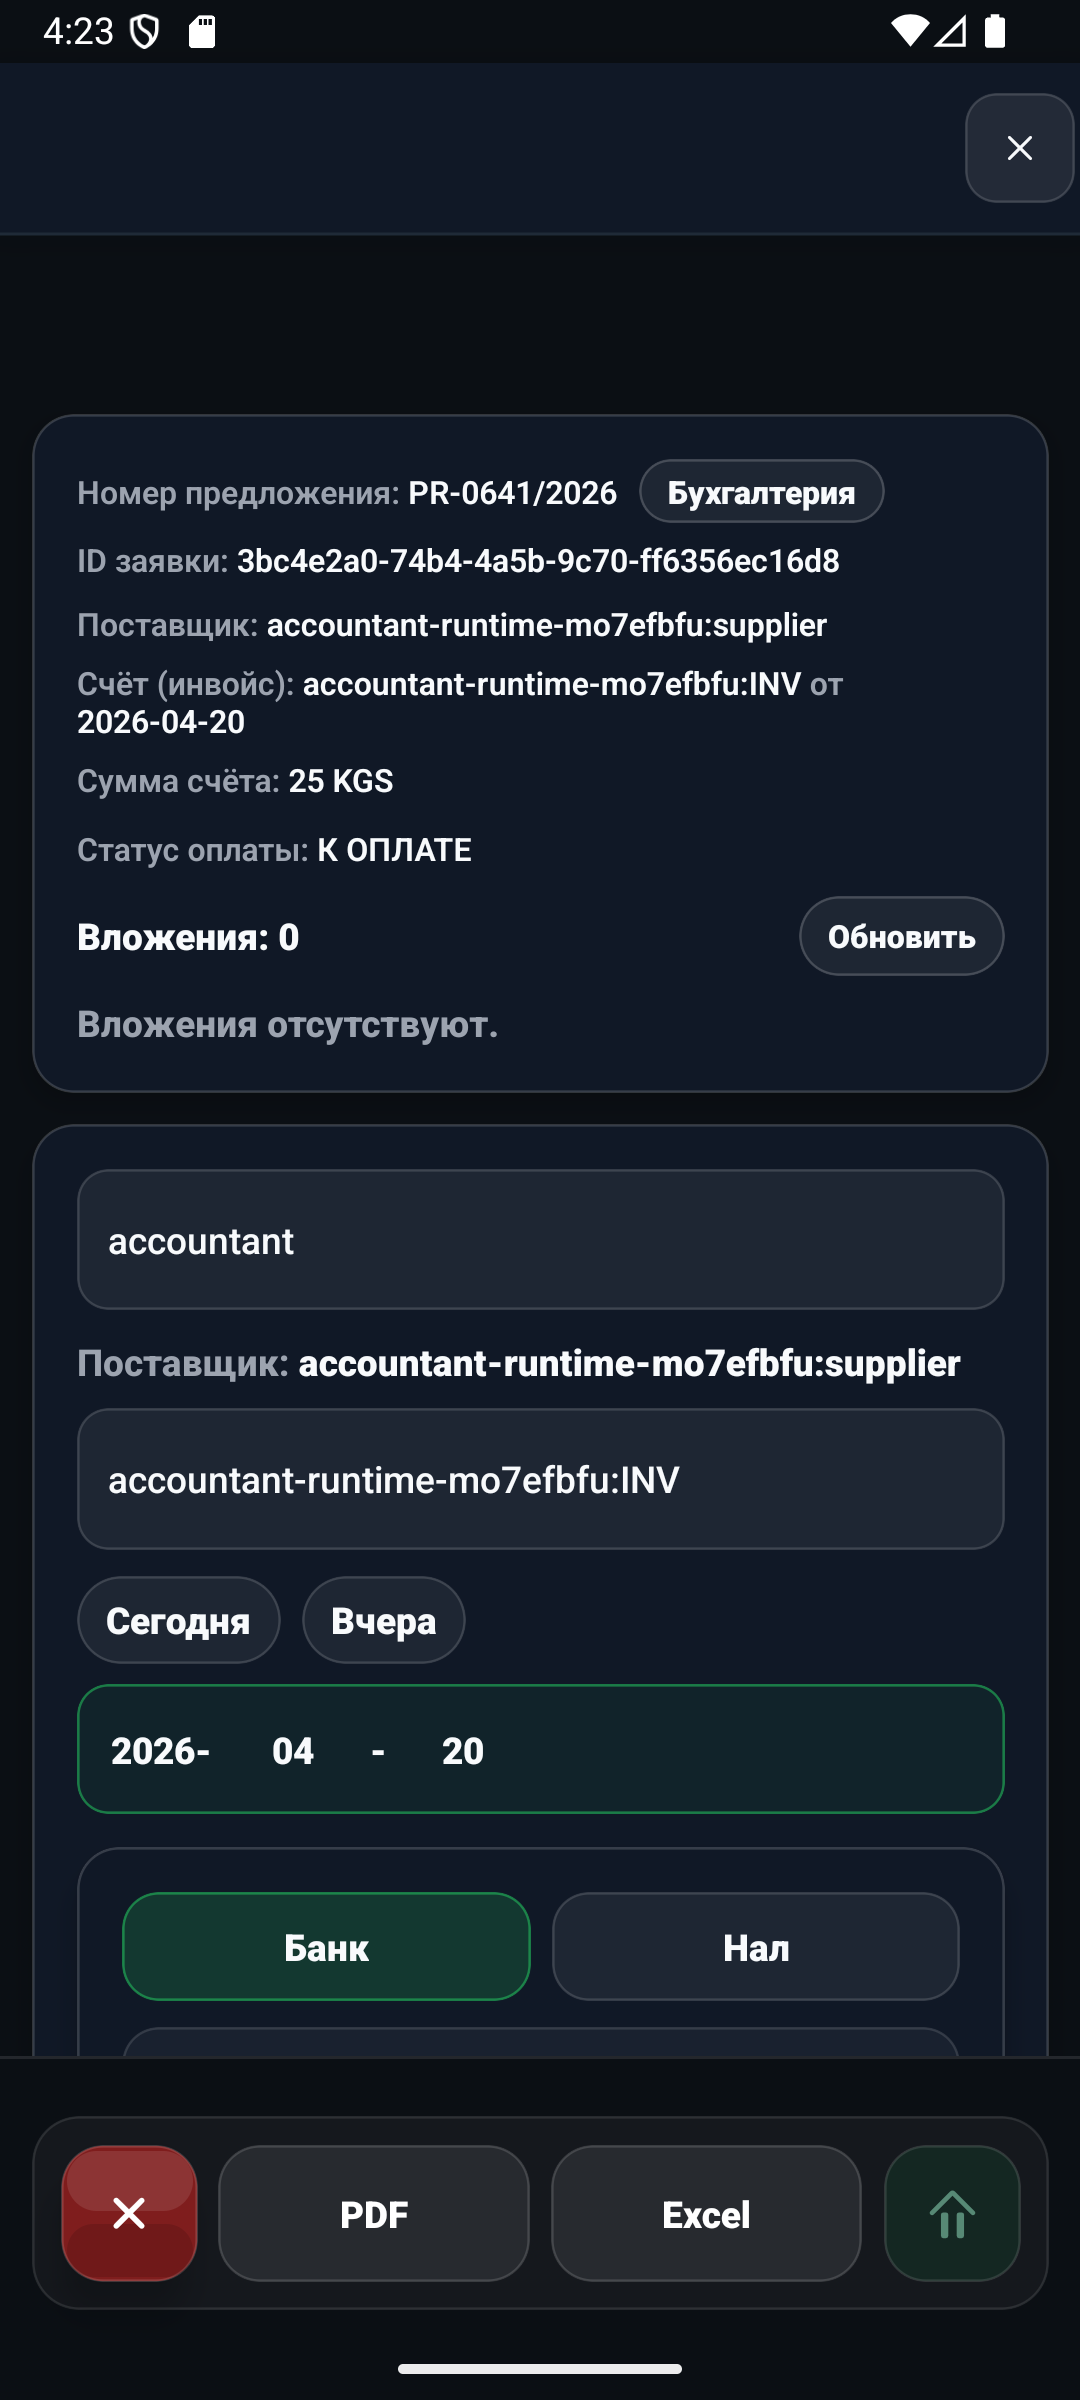
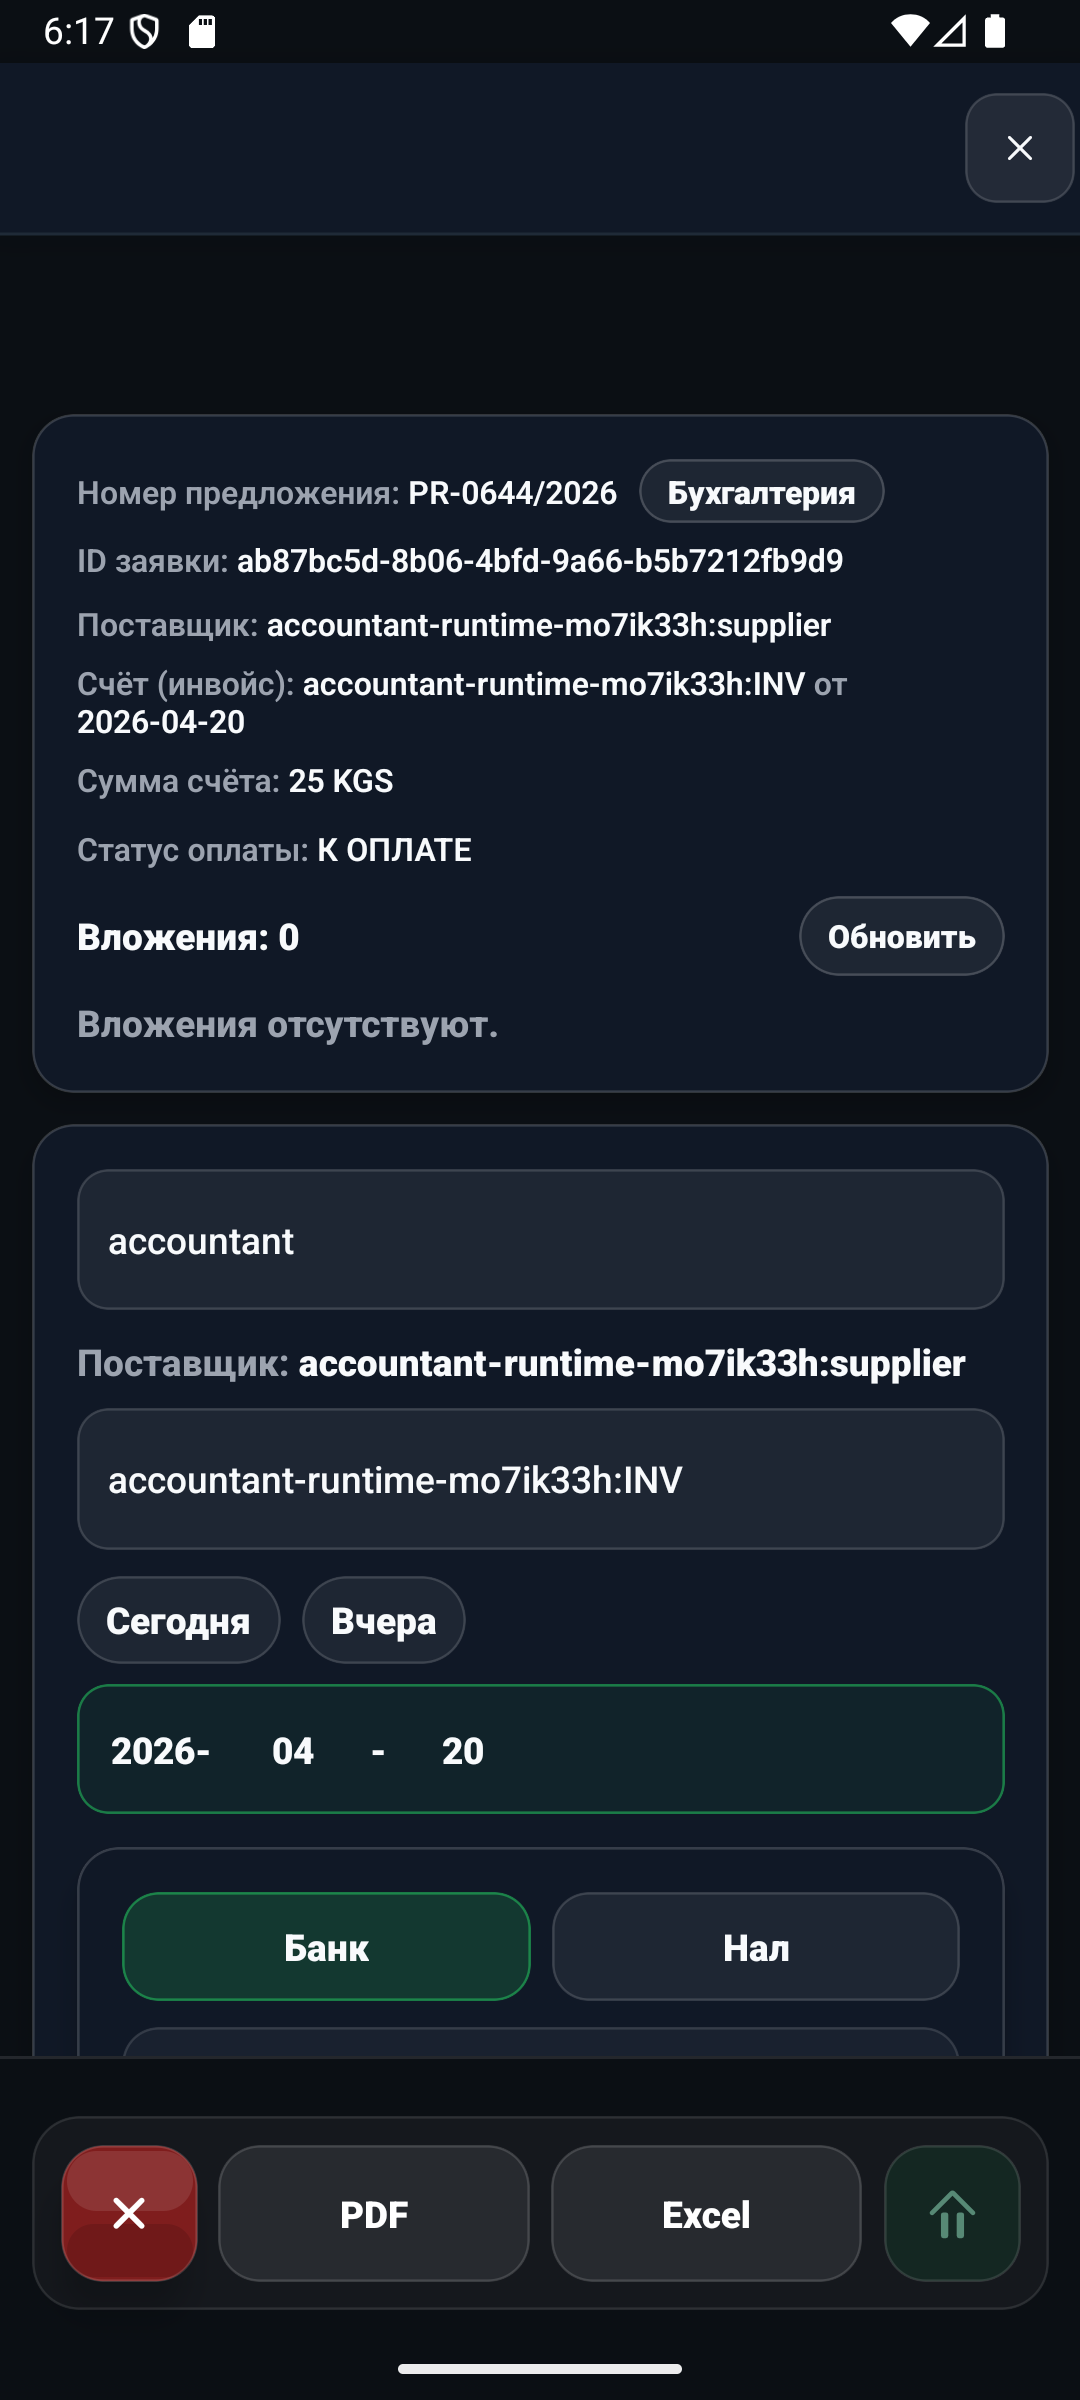
PDF.ACC.FINAL: close accountant android runtime proof

diff --git a/scripts/accountant_payment_runtime_verify.ts b/scripts/accountant_payment_runtime_verify.ts
@@ -13,6 +13,7 @@ const artifactPath = "artifacts/accountant-payment-runtime-proof.json";
 const androidDevClientPort = Number(process.env.ACCOUNTANT_ANDROID_DEV_PORT ?? "8081");
 const admin = createVerifierAdmin("accountant-payment-runtime-verify") as SupabaseClient<Database>;
 const harness = createAndroidHarness({ projectRoot, devClientPort: androidDevClientPort });
+const ACCOUNTANT_TO_PAY_TAB = "К оплате";
 
 type SeedBundle = {
   marker: string;
@@ -145,6 +146,46 @@ function isFioModalSurface(xml: string) {
 }
 
 type AndroidScreen = ReturnType<typeof harness.dumpAndroidScreen>;
+
+function rpcEnvelopeRows(value: unknown): Record<string, unknown>[] {
+  if (!value || typeof value !== "object") return [];
+  const rows = (value as { rows?: unknown }).rows;
+  return Array.isArray(rows) ? rows.filter((row): row is Record<string, unknown> => !!row && typeof row === "object") : [];
+}
+
+async function assertSeedVisibleInAccountantRpc(seed: SeedBundle) {
+  const result = await admin.rpc("accountant_inbox_scope_v1", {
+    p_tab: ACCOUNTANT_TO_PAY_TAB,
+    p_offset: 0,
+    p_limit: 40,
+  });
+  if (result.error) throw result.error;
+  const rows = rpcEnvelopeRows(result.data);
+  const matched = rows.some((row) => JSON.stringify(row).includes(seed.marker));
+  if (!matched) {
+    throw new Error(
+      `Seed proposal ${seed.proposalId} was not visible in accountant_inbox_scope_v1(${ACCOUNTANT_TO_PAY_TAB})`,
+    );
+  }
+  const meta = result.data && typeof result.data === "object" ? (result.data as { meta?: unknown }).meta : null;
+  return {
+    rowCount: rows.length,
+    meta: meta && typeof meta === "object" ? meta : null,
+  };
+}
+
+async function openAndroidLoginSurface(packageName: string | null) {
+  return harness.openAndroidRoute({
+    packageName,
+    routes: ["rik:///auth/login", "rik://auth/login", "rik:///sign-in"],
+    artifactBase: "accountant-payment-runtime-auth-login",
+    predicate: isLoginSurface,
+    renderablePredicate: isLoginSurface,
+    loginScreenPredicate: isLoginSurface,
+    timeoutMs: 45_000,
+    delayMs: 1200,
+  });
+}
 
 function findFioInputNode(screen: AndroidScreen) {
   return (
@@ -362,7 +403,7 @@ async function waitForMarkerOnAccountantScreen(marker: string, fioLabel: string)
   for (let attempt = 0; attempt < 3; attempt += 1) {
     const screen = await harness.openAndroidRoute({
       packageName: harness.detectAndroidPackage(),
-      routes: ["rik:///accountant", "rik:///%28tabs%29/accountant", "rik:///office/accountant"],
+      routes: ["rik:///office/accountant", "rik:///%28tabs%29/office/accountant", "rik:///accountant"],
       artifactBase: `accountant-payment-runtime-${attempt + 1}`,
       predicate: (xml) => (isAccountantSurface(xml) && xml.includes(marker)) || isFioModalSurface(xml),
       renderablePredicate: (xml) => isLoginSurface(xml) || isAccountantSurface(xml) || isFioModalSurface(xml),
@@ -400,12 +441,13 @@ async function main() {
   const summary: Record<string, unknown> = {
     generatedAt: new Date().toISOString(),
     status: "NOT GREEN",
-    route: "rik:///accountant",
+    route: "rik:///office/accountant",
     livePaymentMutationApplied: false,
   };
 
   try {
     seed = await seedPayableProposal();
+    const seedRpc = await assertSeedVisibleInAccountantRpc(seed);
     user = await createTempUser(admin, {
       role: "accountant",
       fullName: "Accountant Runtime Smoke",
@@ -416,10 +458,11 @@ async function main() {
     clearAndroidLogcat();
     const runtimeFioLabel = "accountant";
 
+    await openAndroidLoginSurface(prepared.packageName);
     const loggedIn = await harness.loginAndroidWithProtectedRoute({
       packageName: prepared.packageName,
       user,
-      protectedRoute: "rik:///accountant",
+      protectedRoute: "rik:///office/accountant",
       artifactBase: "accountant-payment-runtime-login",
       successPredicate: (xml) => isAccountantSurface(xml) || isProfileSurface(xml, user) || isFioModalSurface(xml),
       renderablePredicate: (xml) =>
@@ -445,6 +488,7 @@ async function main() {
       user: { id: user.id, email: user.email, role: user.role },
       proposalId: seed.proposalId,
       marker: seed.marker,
+      seedRpc,
       preflight: prepared.preflight,
       recovery: harness.getRecoverySummary(),
       fioConfirmed: routedResult.fioConfirmed,

diff --git a/artifacts/PDF_ACC_FINAL_android_timing.md b/artifacts/PDF_ACC_FINAL_android_timing.md
@@ -1,10 +1,10 @@
 # PDF-ACC-FINAL Android Timing
 
-Status: ANDROID BLOCKED
+Status: PASS
 
 ## Attempt
 
-- Emulator detected: yes (`emulator-5554`)
+- Emulator detected: yes
 - Recovery attempts: 1 bounded attempt only
 - Time cap: 15 minutes
 - Script: `npx tsx scripts/accountant_payment_runtime_verify.ts`
@@ -12,11 +12,13 @@ Status: ANDROID BLOCKED
 
 ## Result
 
-The dev-client environment started, but the Android accountant route did not settle before the 15 minute cap. The raw artifact reports:
+- status: `GREEN`
+- route: `rik:///office/accountant`
+- seed RPC: `accountant_inbox_scope_v1` returned the fixture in the `К оплате` scope before UI proof
+- screen opened: yes
+- fixture row rendered: yes
+- payment entry opened: yes
+- fatal / ANR lines: none
+- cleanup verified: seed proposal and temp user removed after the run
 
-- status: `NOT GREEN`
-- route: `rik:///accountant`
-- failure: route did not settle
-- recovery used: environment recovery, blank surface recovery
-
-Per wave rule, this is recorded as environment `ANDROID BLOCKED`; no extra adb/verifier debugging was done.
+The dev-client process left Metro child processes alive after writing the GREEN artifact; those repo-context node tails were stopped before final gates.

diff --git a/artifacts/PDF_ACC_FINAL_exec_summary.md b/artifacts/PDF_ACC_FINAL_exec_summary.md
@@ -1,6 +1,6 @@
 # PDF-ACC-FINAL Exec Summary
 
-Verdict: GREEN with ANDROID BLOCKED
+Verdict: GREEN
 
 ## What Changed
 
@@ -27,7 +27,7 @@ Verdict: GREEN with ANDROID BLOCKED
 - Lint: PASS.
 - Full Jest: PASS, 369 suites passed, 1 skipped; 2344 tests passed, 1 skipped.
 - Web runtime: PASS, `/office/accountant` card and buttons reachable with no page errors or 5xx.
-- Android runtime: BLOCKED by environment after the single bounded attempt; no extended adb debugging.
+- Android runtime: PASS. The proof opens `/office/accountant`, verifies the seeded proposal through `accountant_inbox_scope_v1`, renders the fixture row, opens the payment entrypoint, and records no fatal/ANR lines.
 
 ## Artifacts
 
@@ -40,6 +40,7 @@ Verdict: GREEN with ANDROID BLOCKED
 - `artifacts/PDF_ACC_FINAL_test_matrix.json`
 - `artifacts/PDF_ACC_FINAL_exec_summary.md`
 - `artifacts/PDF_ACC_FINAL_web_runtime.json`
+- `artifacts/accountant-payment-runtime-proof.json`
 
 ## Unchanged
 
